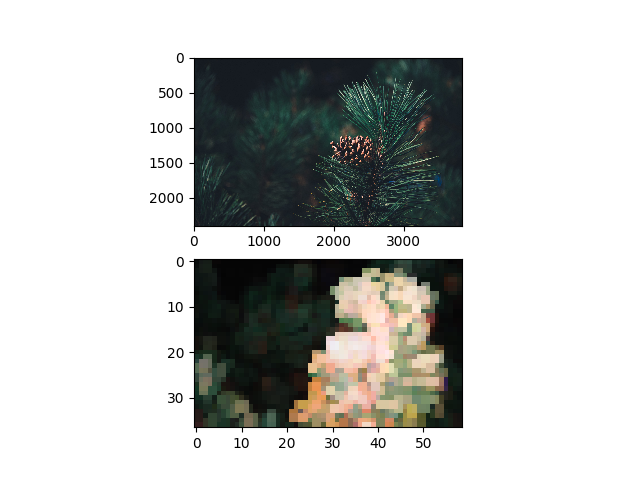
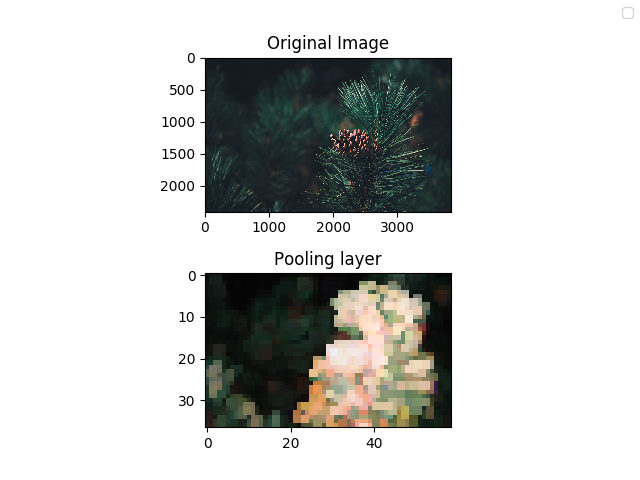
polishing

diff --git a/example/img_pool_test.py b/example/img_pool_test.py
@@ -1,26 +1,34 @@
 #!/usr/bin/env python3
 import numpy as np
-import netCDF4 as nc
 from PIL import Image
 import matplotlib.pyplot as plt
 from overpool import overlapping_pool
 
 
+# Three layered image example
+
+# setting parameters
 img = np.asarray(Image.open('img.jpg'))
 whs = 64
 pool_func = np.ptp
 
+# getting shape of 2D output in order to allocate 3D array
 img_pool0 = overlapping_pool(img[:,:,0], whs, pool_func)
 img_pool = np.empty((img_pool0.shape[0], img_pool0.shape[1], 3))
 img_pool[:,:,0] = img_pool0; del(img_pool0)
+# calculating green and blue channels
 img_pool[:,:,1] = overlapping_pool(img[:,:,1], whs, pool_func)
 img_pool[:,:,2] = overlapping_pool(img[:,:,2], whs, pool_func)
 
 # rescaling needed for RGB plotting
 img_pool /= np.max(img_pool)
 
-fig, axes = plt.subplots(2,1, dpi=300)
+fig, axes = plt.subplots(2,1)
+axes[0].set_title('Original Image')
 axes[0].imshow(img)
+axes[1].set_title('Pooling layer')
 axes[1].imshow(img_pool)
-#plt.savefig('example/img_pool.png')
+fig.legend()
+fig.subplots_adjust(hspace=.4)
+plt.savefig('img_pool.png')
 plt.show()

diff --git a/example/netcdf_test.py b/example/netcdf_test.py
@@ -25,6 +25,10 @@ def pool_func(x):
 img_pool = overlapping_pool(img, whs, pool_func)
 
 fig, axes = plt.subplots(2,1)
+axes[0].set_title('Original Image')
 axes[0].imshow(img)
+axes[1].set_title('Pooling layer')
 axes[1].imshow(img_pool)
+fig.subplots_adjust(hspace=.4)
+plt.savefig('img_pool.png')
 plt.show()

diff --git a/example/overpool.py b/example/overpool.py
@@ -1,0 +1,1 @@
+/mnt/hdd/tmp/overpool/overpool.py
